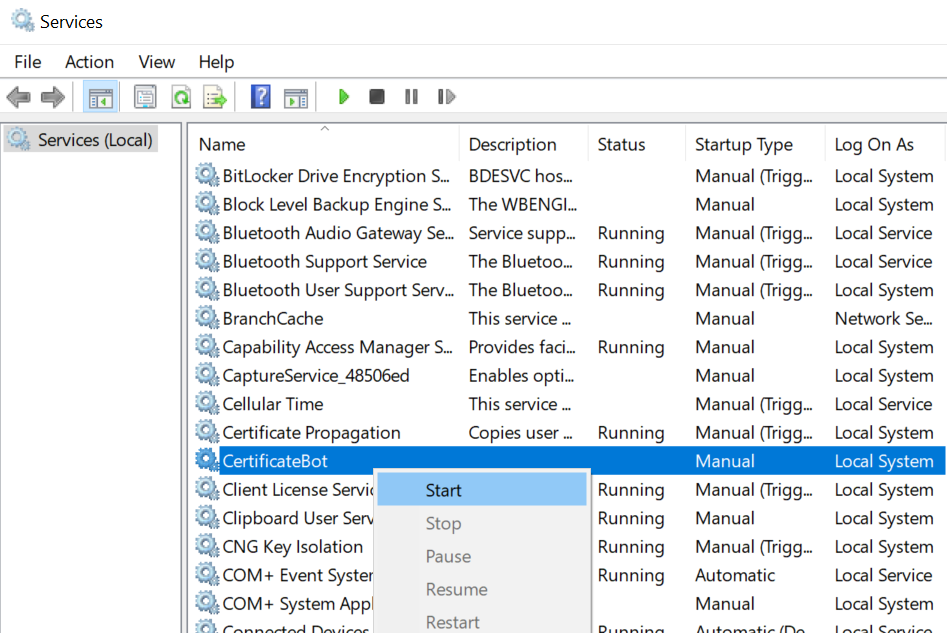
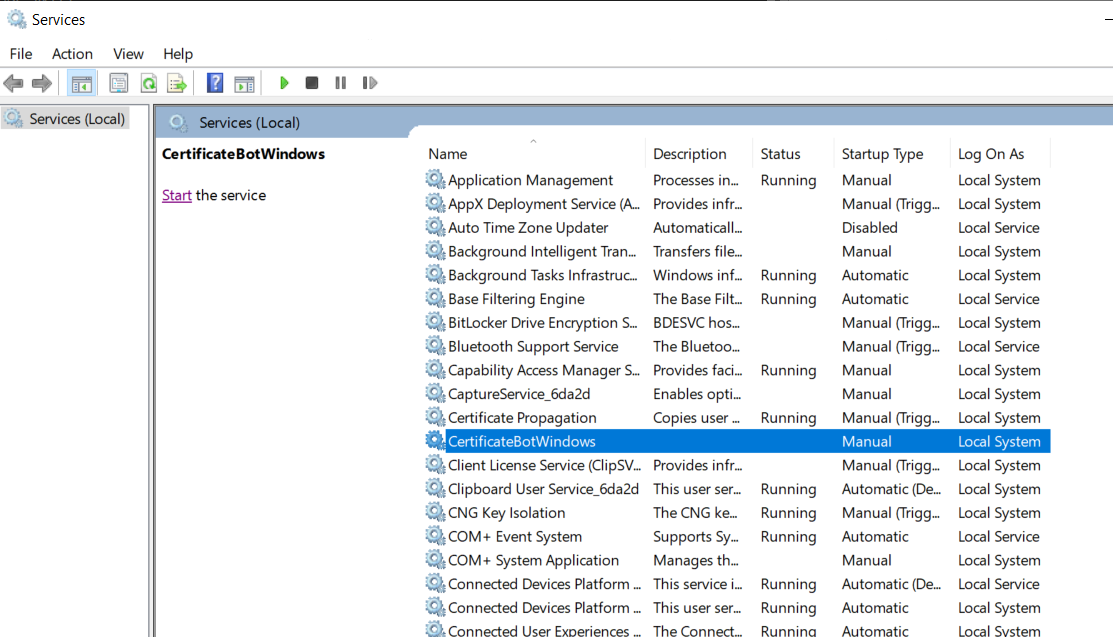
updated certificate bot windows

diff --git a/certbot/windows-service.md b/certbot/windows-service.md
@@ -171,9 +171,9 @@ Example
 sc.exe create CertificateBotWindows binpath= <file-path>\RCL.SSL.CertificateBot.Windows.exe
 ```
 
-- After the service in installed, open **Services** in Windows, look for the ``CertificateBot`` service and **Start** the service
+- After the service in installed, open **Services** in Windows, look for the ``CertificateBotWindows`` service and **Start** the service
 
-![image](../images/certbot/winservice-start.png)
+![image](../images/certbot/winservice-start.PNG)
 
 - Set the **Properties** of the service to start automatically when the hosting machine starts
 
